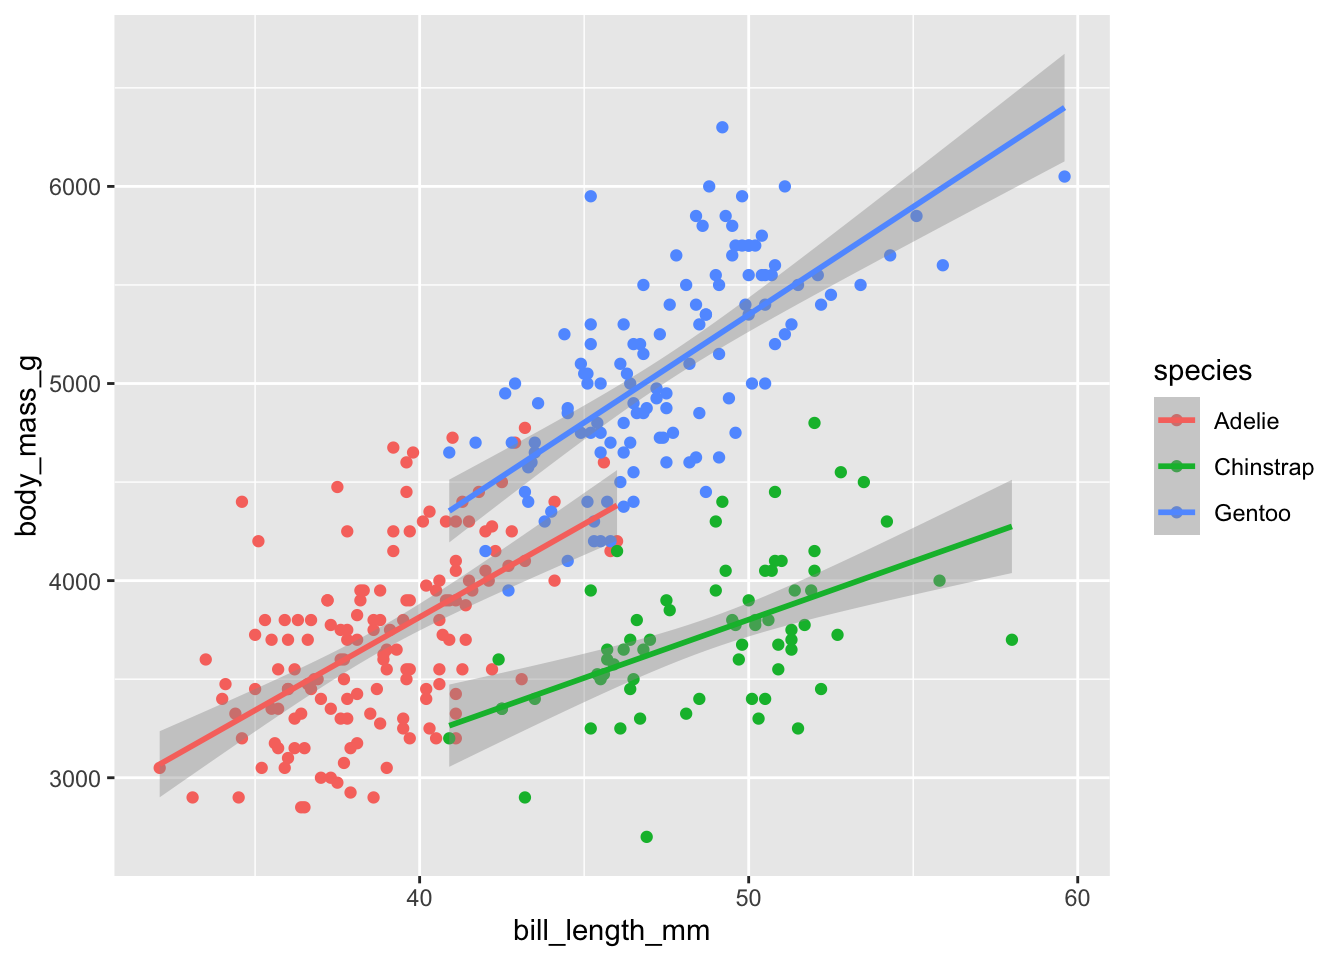
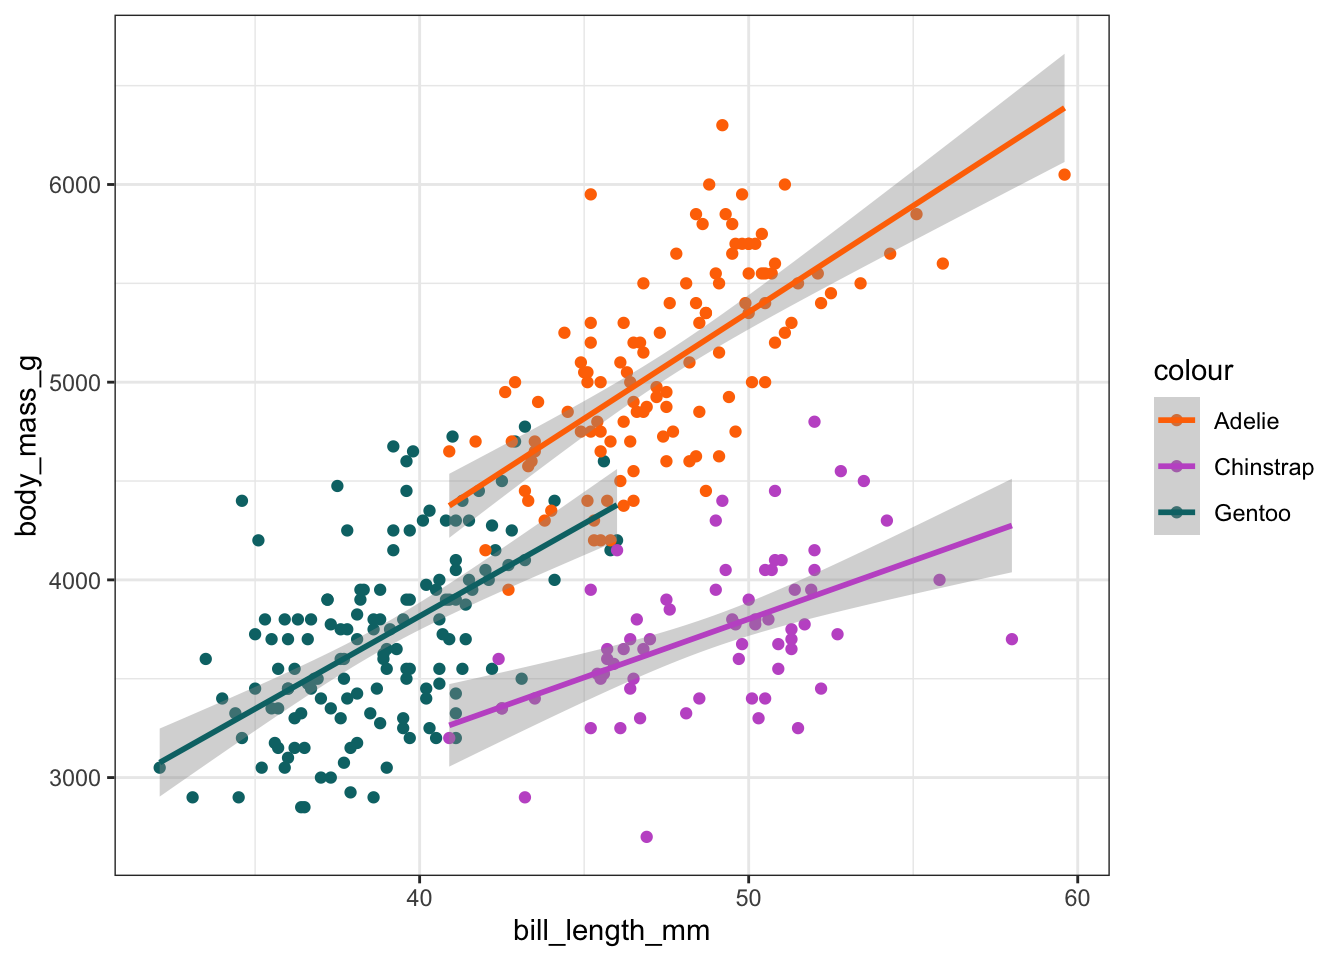
style: Indentation

diff --git a/docs/eda.html b/docs/eda.html
@@ -133,13 +133,14 @@ pre > code.sourceCode > span > a:first-child::before { text-decoration: underlin
 <summary>Code</summary>
 <div class="sourceCode cell-code" id="cb1"><pre class="sourceCode r code-with-copy"><code class="sourceCode r"><span id="cb1-1"><a href="#cb1-1" aria-hidden="true" tabindex="-1"></a><span class="fu">library</span>(palmerpenguins)</span>
 <span id="cb1-2"><a href="#cb1-2" aria-hidden="true" tabindex="-1"></a><span class="fu">library</span>(dplyr)</span>
-<span id="cb1-3"><a href="#cb1-3" aria-hidden="true" tabindex="-1"></a><span class="fu">library</span>(ggplot2)</span></code><button title="Copy to Clipboard" class="code-copy-button"><i class="bi"></i></button></pre></div>
+<span id="cb1-3"><a href="#cb1-3" aria-hidden="true" tabindex="-1"></a><span class="fu">library</span>(ggplot2)</span>
+<span id="cb1-4"><a href="#cb1-4" aria-hidden="true" tabindex="-1"></a><span class="fu">library</span>(tidyr)</span></code><button title="Copy to Clipboard" class="code-copy-button"><i class="bi"></i></button></pre></div>
 </details>
 </div>
 <div class="cell">
 <details>
 <summary>Code</summary>
-<div class="sourceCode cell-code" id="cb2"><pre class="sourceCode r code-with-copy"><code class="sourceCode r"><span id="cb2-1"><a href="#cb2-1" aria-hidden="true" tabindex="-1"></a>df <span class="ot">&lt;-</span> palmerpenguins<span class="sc">::</span>penguins</span>
+<div class="sourceCode cell-code" id="cb2"><pre class="sourceCode r code-with-copy"><code class="sourceCode r"><span id="cb2-1"><a href="#cb2-1" aria-hidden="true" tabindex="-1"></a>df <span class="ot">&lt;-</span> palmerpenguins<span class="sc">::</span>penguins<span class="sc">%&gt;%</span> <span class="fu">drop_na</span>()</span>
 <span id="cb2-2"><a href="#cb2-2" aria-hidden="true" tabindex="-1"></a>df <span class="sc">%&gt;%</span></span>
 <span id="cb2-3"><a href="#cb2-3" aria-hidden="true" tabindex="-1"></a>  <span class="fu">group_by</span>(species, sex) <span class="sc">%&gt;%</span></span>
 <span id="cb2-4"><a href="#cb2-4" aria-hidden="true" tabindex="-1"></a>  <span class="fu">summarise</span>(</span>
@@ -192,15 +193,6 @@ pre > code.sourceCode > span > a:first-child::before { text-decoration: underlin
 <td style="text-align: right;">2008.055</td>
 </tr>
 <tr class="odd">
-<td style="text-align: left;">Adelie</td>
-<td style="text-align: left;">NA</td>
-<td style="text-align: right;">37.84000</td>
-<td style="text-align: right;">18.32000</td>
-<td style="text-align: right;">185.6000</td>
-<td style="text-align: right;">3540.000</td>
-<td style="text-align: right;">2007.000</td>
-</tr>
-<tr class="even">
 <td style="text-align: left;">Chinstrap</td>
 <td style="text-align: left;">female</td>
 <td style="text-align: right;">46.57353</td>
@@ -209,7 +201,7 @@ pre > code.sourceCode > span > a:first-child::before { text-decoration: underlin
 <td style="text-align: right;">3527.206</td>
 <td style="text-align: right;">2007.971</td>
 </tr>
-<tr class="odd">
+<tr class="even">
 <td style="text-align: left;">Chinstrap</td>
 <td style="text-align: left;">male</td>
 <td style="text-align: right;">51.09412</td>
@@ -218,7 +210,7 @@ pre > code.sourceCode > span > a:first-child::before { text-decoration: underlin
 <td style="text-align: right;">3938.971</td>
 <td style="text-align: right;">2007.971</td>
 </tr>
-<tr class="even">
+<tr class="odd">
 <td style="text-align: left;">Gentoo</td>
 <td style="text-align: left;">female</td>
 <td style="text-align: right;">45.56379</td>
@@ -227,7 +219,7 @@ pre > code.sourceCode > span > a:first-child::before { text-decoration: underlin
 <td style="text-align: right;">4679.741</td>
 <td style="text-align: right;">2008.069</td>
 </tr>
-<tr class="odd">
+<tr class="even">
 <td style="text-align: left;">Gentoo</td>
 <td style="text-align: left;">male</td>
 <td style="text-align: right;">49.47377</td>
@@ -235,15 +227,6 @@ pre > code.sourceCode > span > a:first-child::before { text-decoration: underlin
 <td style="text-align: right;">221.5410</td>
 <td style="text-align: right;">5484.836</td>
 <td style="text-align: right;">2008.066</td>
-</tr>
-<tr class="even">
-<td style="text-align: left;">Gentoo</td>
-<td style="text-align: left;">NA</td>
-<td style="text-align: right;">45.62500</td>
-<td style="text-align: right;">14.55000</td>
-<td style="text-align: right;">215.7500</td>
-<td style="text-align: right;">4587.500</td>
-<td style="text-align: right;">2008.400</td>
 </tr>
 </tbody>
 </table>
@@ -255,10 +238,21 @@ pre > code.sourceCode > span > a:first-child::before { text-decoration: underlin
 <div class="cell">
 <details>
 <summary>Code</summary>
-<div class="sourceCode cell-code" id="cb3"><pre class="sourceCode r code-with-copy"><code class="sourceCode r"><span id="cb3-1"><a href="#cb3-1" aria-hidden="true" tabindex="-1"></a>df <span class="sc">%&gt;%</span></span>
-<span id="cb3-2"><a href="#cb3-2" aria-hidden="true" tabindex="-1"></a>  <span class="fu">ggplot</span>(<span class="fu">aes</span>(<span class="at">x =</span> bill_length_mm, <span class="at">y =</span> body_mass_g, <span class="at">color =</span> species)) <span class="sc">+</span></span>
-<span id="cb3-3"><a href="#cb3-3" aria-hidden="true" tabindex="-1"></a>  <span class="fu">geom_point</span>() <span class="sc">+</span> </span>
-<span id="cb3-4"><a href="#cb3-4" aria-hidden="true" tabindex="-1"></a>  <span class="fu">geom_smooth</span>(<span class="at">method =</span> <span class="st">"lm"</span>)</span></code><button title="Copy to Clipboard" class="code-copy-button"><i class="bi"></i></button></pre></div>
+<div class="sourceCode cell-code" id="cb3"><pre class="sourceCode r code-with-copy"><code class="sourceCode r"><span id="cb3-1"><a href="#cb3-1" aria-hidden="true" tabindex="-1"></a>df <span class="ot">=</span> df <span class="sc">%&gt;%</span></span>
+<span id="cb3-2"><a href="#cb3-2" aria-hidden="true" tabindex="-1"></a>  <span class="fu">mutate</span>(<span class="at">colour =</span> <span class="fu">case_when</span>(</span>
+<span id="cb3-3"><a href="#cb3-3" aria-hidden="true" tabindex="-1"></a>    (species <span class="sc">==</span> <span class="st">"Adelie"</span>) <span class="sc">~</span> <span class="st">"#ff7400"</span>,</span>
+<span id="cb3-4"><a href="#cb3-4" aria-hidden="true" tabindex="-1"></a>    (species <span class="sc">==</span> <span class="st">"Chinstrap"</span>) <span class="sc">~</span> <span class="st">"#c35ccc"</span>,</span>
+<span id="cb3-5"><a href="#cb3-5" aria-hidden="true" tabindex="-1"></a>    (species <span class="sc">==</span> <span class="st">"Gentoo"</span>) <span class="sc">~</span> <span class="st">"#057275"</span>,</span>
+<span id="cb3-6"><a href="#cb3-6" aria-hidden="true" tabindex="-1"></a>    <span class="cn">TRUE</span> <span class="sc">~</span> <span class="st">""</span>,</span>
+<span id="cb3-7"><a href="#cb3-7" aria-hidden="true" tabindex="-1"></a>  ))</span>
+<span id="cb3-8"><a href="#cb3-8" aria-hidden="true" tabindex="-1"></a></span>
+<span id="cb3-9"><a href="#cb3-9" aria-hidden="true" tabindex="-1"></a>df <span class="sc">%&gt;%</span></span>
+<span id="cb3-10"><a href="#cb3-10" aria-hidden="true" tabindex="-1"></a>  <span class="fu">ggplot</span>(<span class="fu">aes</span>(<span class="at">x =</span> bill_length_mm, <span class="at">y =</span> body_mass_g, <span class="at">colour=</span>colour)) <span class="sc">+</span></span>
+<span id="cb3-11"><a href="#cb3-11" aria-hidden="true" tabindex="-1"></a>  <span class="fu">geom_point</span>() <span class="sc">+</span> </span>
+<span id="cb3-12"><a href="#cb3-12" aria-hidden="true" tabindex="-1"></a>  <span class="fu">geom_smooth</span>(<span class="at">method =</span> <span class="st">"lm"</span>) <span class="sc">+</span></span>
+<span id="cb3-13"><a href="#cb3-13" aria-hidden="true" tabindex="-1"></a>  <span class="fu">scale_color_manual</span>(<span class="at">values =</span> <span class="fu">levels</span>(<span class="fu">factor</span>(df<span class="sc">$</span>colour, <span class="at">levels=</span><span class="fu">c</span>(<span class="st">"#ff7400"</span>, <span class="st">"#c35ccc"</span>, <span class="st">"#057275"</span>))), </span>
+<span id="cb3-14"><a href="#cb3-14" aria-hidden="true" tabindex="-1"></a>                   <span class="at">labels =</span> <span class="fu">c</span>(<span class="st">"Adelie"</span>,<span class="st">"Chinstrap"</span>,<span class="st">"Gentoo"</span>)) <span class="sc">+</span></span>
+<span id="cb3-15"><a href="#cb3-15" aria-hidden="true" tabindex="-1"></a>                   <span class="fu">theme_bw</span>()</span></code><button title="Copy to Clipboard" class="code-copy-button"><i class="bi"></i></button></pre></div>
 </details>
 <div class="cell-output-display">
 <p><img src="eda_files/figure-html/unnamed-chunk-3-1.png" class="img-fluid" width="672"></p>

diff --git a/docs/index.html b/docs/index.html
@@ -150,7 +150,7 @@ ul.task-list li input[type="checkbox"] {
     </div>
 </div>
 <div class="list quarto-listing-default">
-<div class="quarto-post image-right" data-index="0" data-listing-file-modified-sort="1704178704993" data-listing-reading-time-sort="1">
+<div class="quarto-post image-right" data-index="0" data-listing-file-modified-sort="1704313984737" data-listing-reading-time-sort="1">
 <div class="thumbnail">
 <p><a href="./eda.html"> <img src="https://allisonhorst.github.io/palmerpenguins/reference/figures/lter_penguins.png" class="thumbnail-image"> </a></p>
 </div>
